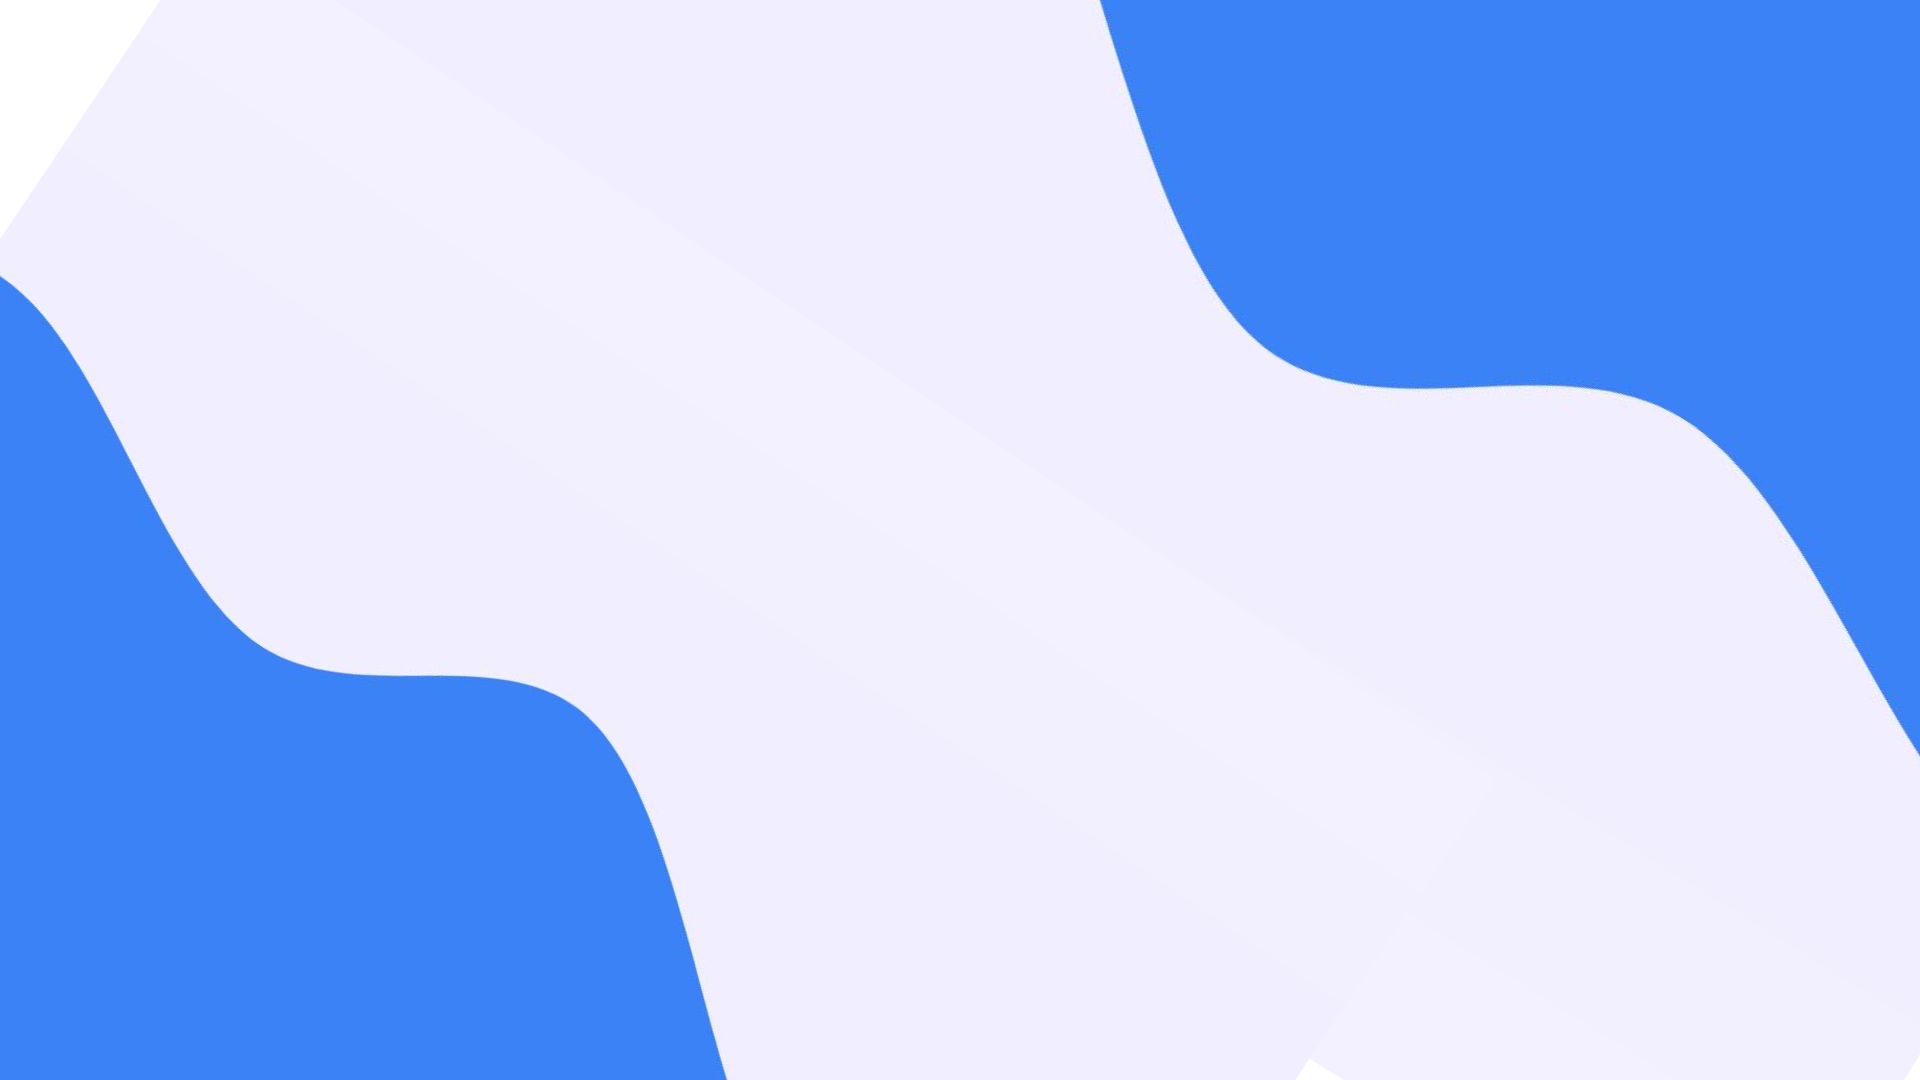
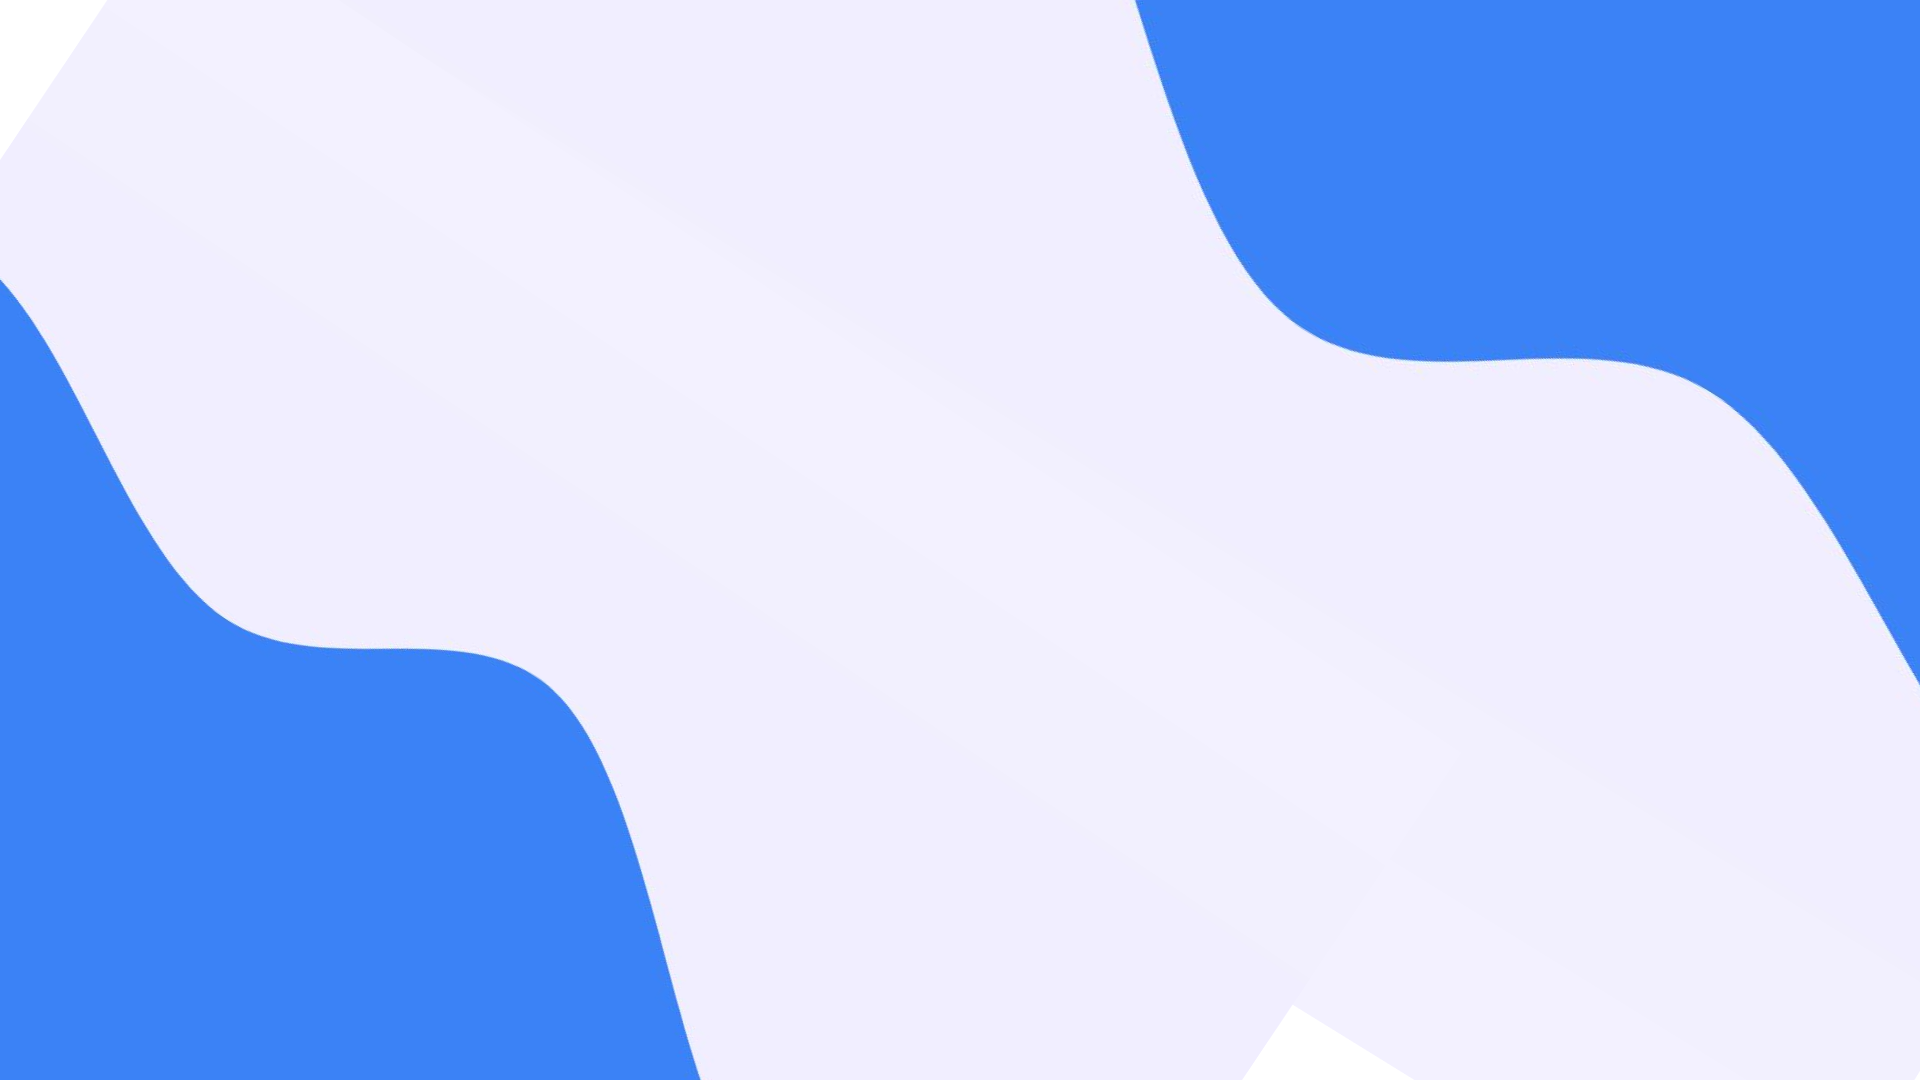
Add

diff --git a/src/components/Profile.js b/src/components/Profile.js
@@ -9,6 +9,7 @@ import Modal from 'react-modal';
 import FollowButton from './FollowButton';
 import { IoAddCircleOutline } from 'react-icons/io5';
 import { IoMdCreate } from 'react-icons/io';
+import backgroundImage from '../assets/bg-2.png';
 
 const Profile = () => {
   const { uid } = useParams();
@@ -324,15 +325,15 @@ const Profile = () => {
   }
 
   return (
-    <div className="h-full w-full flex flex-col justify-center items-center bg-white text-black pt-12 lg:pl-28">
+    <div className="h-screen w-full flex flex-col items-center bg-white text-black pt-12 lg:pl-28 bg-cover bg-center" style={{ backgroundImage: `url(${backgroundImage})`, backgroundAttachment: 'fixed' }}>
       {isProfileSet ? (
         <>
-          <div className="bg-black p-4 px-5 rounded-full text-white flex items-center justify-between gap-8 mx-8 my-4">
+          <div className="bg-blue-500 p-4 px-5 rounded-full text-white flex items-center justify-between gap-8 mx-8 my-4">
             <img src={profileUrl} alt="Profile" className="w-20 h-20 rounded-full object-cover" />
             <div className="flex flex-col items-start justify-center">
               <div className="flex gap-4">
                 <h3 className="text-xl">@{username}</h3>
-                {isCurrentUser && <button className=" text-black p-1 flex items-center" onClick={() => setModalIsOpen(true)}>
+                {isCurrentUser && <button className=" text-white p-1 flex items-center" onClick={() => setModalIsOpen(true)}>
                   <IoMdCreate />
                 </button>}
               </div>
@@ -345,7 +346,7 @@ const Profile = () => {
           </div>
           {isCurrentUser && (
             <div className="fixed flex bottom-8 left-1/2 transform -translate-x-1/2">
-              <label htmlFor="file-upload" className="rounded-full bg-black p-2 cursor-pointer">
+              <label htmlFor="file-upload" className="rounded-full bg-blue-500 p-2 cursor-pointer">
                 <IoAddCircleOutline className="text-white text-3xl" />
                 <input id="file-upload" className="hidden" type="file" onChange={handlePostImageChange} />
               </label>
@@ -354,7 +355,7 @@ const Profile = () => {
           <div className="post-grid mx-12 mt-12">
             <div className="p-6 rounded-lg grid grid-cols-1 sm:grid-cols-2 md:grid-cols-3 lg:grid-cols-4 gap-4">
               {posts.map((post, index) => (
-                <div key={index} className="bg-black p-2 rounded-lg post-item cursor-pointer" onClick={() => openPostModal(post)}>
+                <div key={index} className="bg-blue-500 p-2 rounded-lg post-item cursor-pointer" onClick={() => openPostModal(post)}>
                   <img src={post.postImageUrl} alt="User Post" className="w-full h-auto rounded-lg" />
                 </div>
               ))}

diff --git a/src/components/Navbar.js b/src/components/Navbar.js
@@ -29,17 +29,17 @@ const Navbar = () => {
 
   return (
     <nav className="fixed h-screen bg-transparent text-white w-16 flex flex-col items-center justify-center pt-6">
-      <ul className="bg-black py-12 rounded-full ml-4 flex flex-col gap-3 w-full justify-center items-center">
+      <ul className="bg-blue-500 py-12 rounded-full ml-4 flex flex-col gap-3 w-full justify-center items-center">
         {currentUser ? (
           <>
-            <li><Link to={`/profile/${uid}`} className='text-white hover:bg-white hover:text-black p-2 rounded-lg flex'><FaUser size={20} /></Link></li>
-            <li><Link to="/feed" className='text-white hover:bg-white hover:text-black p-2 rounded-lg flex'><FaHome size={20} /></Link></li>
-            <li><button onClick={handleLogout} className='text-white hover:bg-white hover:text-black p-2 rounded-lg'><FaSignOutAlt size={20} /></button></li>
+            <li><Link to={`/profile/${uid}`} className='text-white hover:bg-white hover:text-blue-500 p-2 rounded-full flex'><FaUser size={20} /></Link></li>
+            <li><Link to="/feed" className='text-white hover:bg-white hover:text-blue-500 p-2 rounded-full flex'><FaHome size={20} /></Link></li>
+            <li><button onClick={handleLogout} className='text-white hover:bg-white hover:text-blue-500 p-2 rounded-full'><FaSignOutAlt size={20} /></button></li>
           </>
         ) : (
           <>
-            <li><Link to="/login" className='text-white hover:bg-white hover:text-black p-2 rounded-lg'><FaSignInAlt size={20} /></Link></li>
-            <li><Link to="/signup" className='text-white hover:bg-white hover:text-black p-2 rounded-lg'><FaUserPlus size={20} /></Link></li>
+            <li><Link to="/login" className='text-white hover:bg-white hover:text-black p-2 rounded-full'><FaSignInAlt size={20} /></Link></li>
+            <li><Link to="/signup" className='text-white hover:bg-white hover:text-black p-2 rounded-full'><FaUserPlus size={20} /></Link></li>
           </>
         )}
       </ul>

diff --git a/src/components/Feed.js b/src/components/Feed.js
@@ -4,6 +4,7 @@ import { getAuth } from 'firebase/auth';
 import { getStorage, ref, deleteObject } from 'firebase/storage';
 import { useNavigate } from 'react-router-dom';
 import { FaHeart, FaRegHeart, FaTrash } from 'react-icons/fa';
+import backgroundImage from '../assets/bg-2.png';
 
 const Feed = () => {
   const [posts, setPosts] = useState([]);
@@ -77,9 +78,9 @@ const Feed = () => {
   };
 
   return (
-    <div className="w-full h-full flex flex-col items-center justify-center bg-white pt-16">
+    <div className="w-full h-full flex flex-col items-center justify-center bg-white pt-16 bg-cover bg-center" style={{ backgroundImage: `url(${backgroundImage})`, backgroundAttachment: 'fixed' }}>
       {posts.map((post, index) => (
-        <div key={index} className="w-full bg-black py-4 px-2 rounded-xl text-white max-w-md flex flex-col items-center mb-6">
+        <div key={index} className="w-full bg-blue-500 py-4 px-2 rounded-xl text-white max-w-md flex flex-col items-center mb-6">
           {post.user && (
             <div className="w-full flex items-center mb-4 px-2">
               <div onClick={() => handleProfileRedirect(post.userId)} className="flex items-center cursor-pointer">

diff --git a/src/components/Signup.js b/src/components/Signup.js
@@ -28,7 +28,7 @@ function Signup() {
   };
 
   return (
-    <div className="h-screen w-full bg-gray-100 flex flex-col justify-center items-center bg-cover bg-center" style={{ backgroundImage: `url(${backgroundImage})` }}>
+    <div className="h-screen w-full bg-gray-100 flex flex-col justify-center items-center bg-cover bg-center" style={{ backgroundImage: `url(${backgroundImage})`, backgroundAttachment: 'fixed' }}>
       <div className="bg-white p-8 rounded-lg shadow-neomorph w-96">
         <div className="flex justify-center mb-4">
           <div className="bg-white p-4 rounded-full shadow-neomorph-inner">

diff --git a/src/components/Login.js b/src/components/Login.js
@@ -22,7 +22,7 @@ function Login() {
   };
 
   return (
-    <div className="h-screen w-full flex flex-col justify-center items-center bg-cover bg-center" style={{ backgroundImage: `url(${backgroundImage})` }}>
+    <div className="h-screen w-full flex flex-col justify-center items-center bg-cover bg-center" style={{ backgroundImage: `url(${backgroundImage})`, backgroundAttachment: 'fixed' }}>
       <div className="bg-white p-8 rounded-lg shadow-neomorph w-96">
         <div className="flex justify-center mb-4">
           <div className="bg-white p-4 rounded-full shadow-neomorph-inner">
